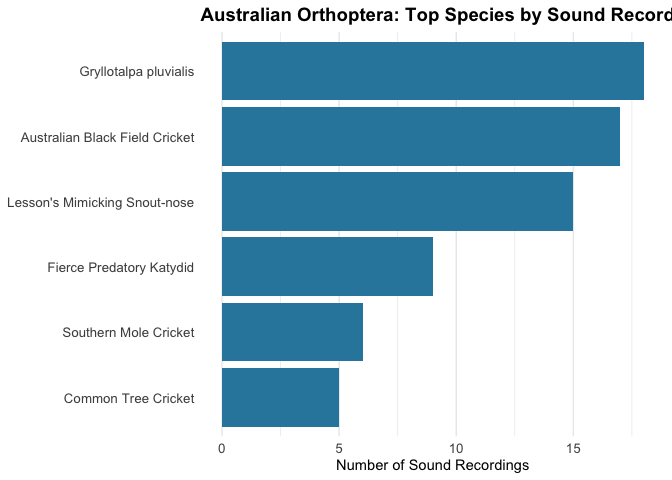
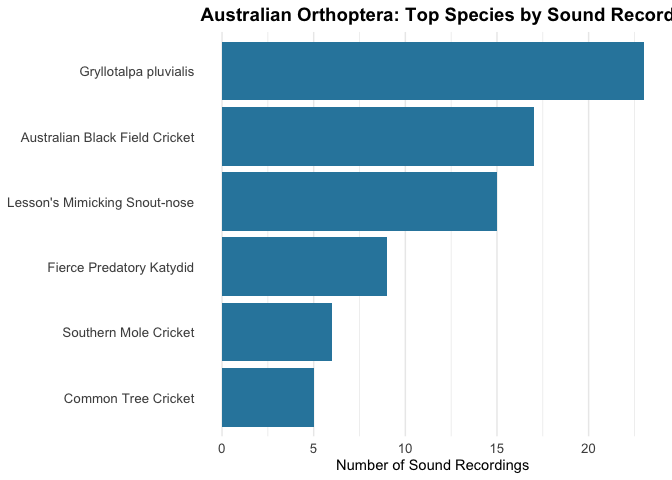
updating readme

diff --git a/README.md b/README.md
@@ -19,7 +19,7 @@ GitHub:
 
 ``` r
 # install.packages("devtools")
-#devtools::install_github("wcornwell/ecoacoustic_utilities")
+# devtools::install_github("wcornwell/ecoacoustic_utilities")
 ```
 
 ## Functions
@@ -46,6 +46,13 @@ GitHub:
 
 ### ALA Functions
 
+- **`get_ala_sounds()`** - Download sound recordings from the Atlas of
+  Living Australia (ALA)
+  - **Use case**: Download high-quality research recordings from ALA
+    nodes
+  - Automatically handles various metadata formats and unique file
+    naming
+  - Efficiently limits searches to avoid API timeouts
 - **`get_ala_circle_occurrences()`** - Download occurrence records
   within a circular area
 
@@ -76,15 +83,15 @@ duplicates <- find_duplicate_wavs("/path/to/audio/library")
 n_sounds <- get_inat_sounds(
   "Turnix maculosus",
   place_name = "Australia",
-  download = FALSE  # Just get the count
+  download = FALSE # Just get the count
 )
-print(n_sounds)  # e.g., 450
+print(n_sounds) # e.g., 450
 
 # 2. Which species have the most recordings?
 species_summary <- get_inat_species_summary(
-  taxon_name = "Orthoptera",  # All crickets/grasshoppers
+  taxon_name = "Orthoptera", # All crickets/grasshoppers
   place_name = "Australia",
-  min_recordings = 5  # Only species with 5+ recordings
+  min_recordings = 5 # Only species with 5+ recordings
 )
 print(species_summary)
 
@@ -96,7 +103,7 @@ get_inat_sounds(
   "Turnix maculosus",
   place_name = "Australia",
   target_n = 100,
-  download = TRUE,  # Download files
+  download = TRUE, # Download files
   quality = "research"
 )
 ```
@@ -120,13 +127,13 @@ orth_summary <- get_inat_species_summary(
   place_name = "Australia",
   min_recordings = 5
 )
-#> Processing page 1 (149 observations)
+#> Processing page 1 (154 observations)
 #> No more results at page 2.
 
 # View top species
 head(orth_summary, 10)
 #>    taxon_id         scientific_name                    common_name n_recordings
-#> 1    623017   Gryllotalpa pluvialis                           <NA>           18
+#> 1    623017   Gryllotalpa pluvialis                           <NA>           23
 #> 7    397920   Teleogryllus commodus Australian Black Field Cricket           17
 #> 3    701931 Pseudorhynchus lessonii  Lesson's Mimicking Snout-nose           15
 #> 11   894013    Hexacentrus mundurra       Fierce Predatory Katydid            9
@@ -146,7 +153,18 @@ plot_inat_species_summary(
 ### ALA Workflow
 
 ``` r
-# Get ALA occurrences within a radius
+# Configure ALA email (required for galah)
+library(galah)
+galah_config(email = "your.email@example.com")
+
+# 1. Download sounds for a specific species
+get_ala_sounds(
+  "Notaden bennettii",
+  target_n = 10,
+  include_taxon_name = TRUE
+)
+
+# 2. Get ALA occurrences within a radius
 birds <- get_ala_circle_occurrences(
   taxon = "Aves",
   lat = -33.7,
@@ -161,7 +179,7 @@ birds <- get_ala_circle_occurrences(
 ``` r
 # Analyze an audio training dataset
 summary <- training_dataset_summary("/path/to/audio/dataset")
-print(summary)  # Shows class distribution, file types, sizes, durations, outliers
+print(summary) # Shows class distribution, file types, sizes, durations, outliers
 ```
 
 ## License
